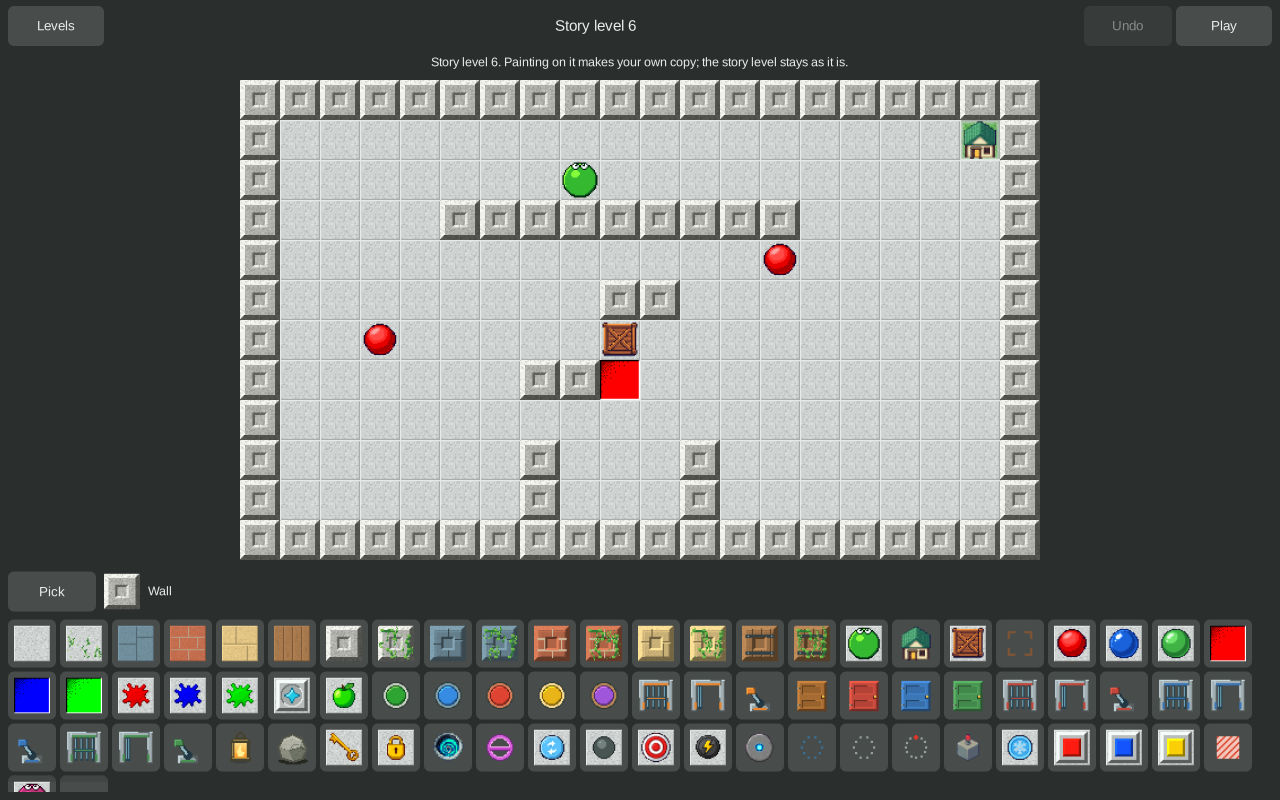
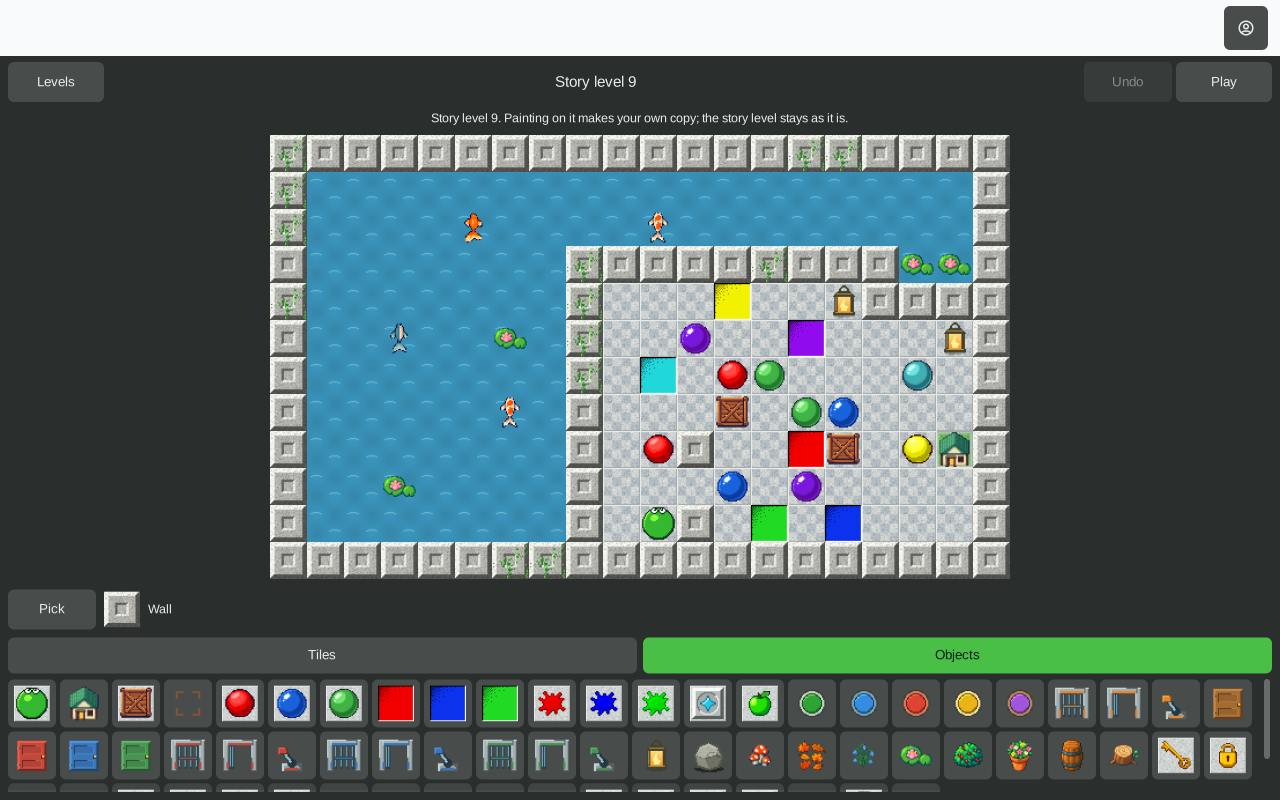
README: level 73 as the hero picture, and the editor with its Objects tab

diff --git a/docs/screenshots/README.md b/docs/screenshots/README.md
@@ -1,12 +1,13 @@
 # Screenshots
 
-These are unaltered captures of standalone Shovey 0.6.30, with 26 approved
-Classic levels. They were captured at 1280 × 800 on a private Xvfb display
-using disposable saves, without touching the running editor or player.
+These are unaltered captures of standalone Shovey. `hero.png` and `editor.png`
+show 0.6.107, with 90 approved Classic levels; the others show 0.6.30. They
+were captured at 1280 × 800 on a private Xvfb display using disposable saves,
+without touching the running editor or player.
 
-- `hero.png`: Classic level 26 at its starting position.
+- `hero.png`: Classic level 73 at its starting position.
 - `classic.png`: the Classic level chooser, with the screenshot profile unlocked through level 26.
-- `editor.png`: story level 6 in the integrated Classic editor.
+- `editor.png`: story level 9 in the integrated Classic editor, on the Objects tab.
 - `chooser.png`: the standalone game chooser.
 
 The Island story campaign is unavailable in this release; Island editing is available.

diff --git a/README.md b/README.md
@@ -8,7 +8,7 @@ Shovey is a puzzle game about finding a path home. Push balls into matching
 pits, move crates onto their marks, collect what you need and untangle the
 board one move at a time.
 
-![Shovey Classic level 26, with a brick courtyard, sand, water and colored balls and pits](docs/screenshots/hero.png)
+![Shovey Classic level 73: a sand yard and a brick room with colored balls and holes, crates, berry bushes and the house](docs/screenshots/hero.png)
 
 ## Play
 
@@ -45,7 +45,7 @@ The editor checks for a winning route while you build. Solving the board
 yourself proves it too. Proven puzzles can be exported, and hosts with
 collection sharing can publish them for friends or other players.
 
-![Shovey’s integrated editor showing a Classic puzzle and its piece palette](docs/screenshots/editor.png)
+![Shovey’s integrated editor showing story level 9, with its palette on the Objects tab](docs/screenshots/editor.png)
 
 **Island editing is available.** The Island story campaign is still in development.
 
